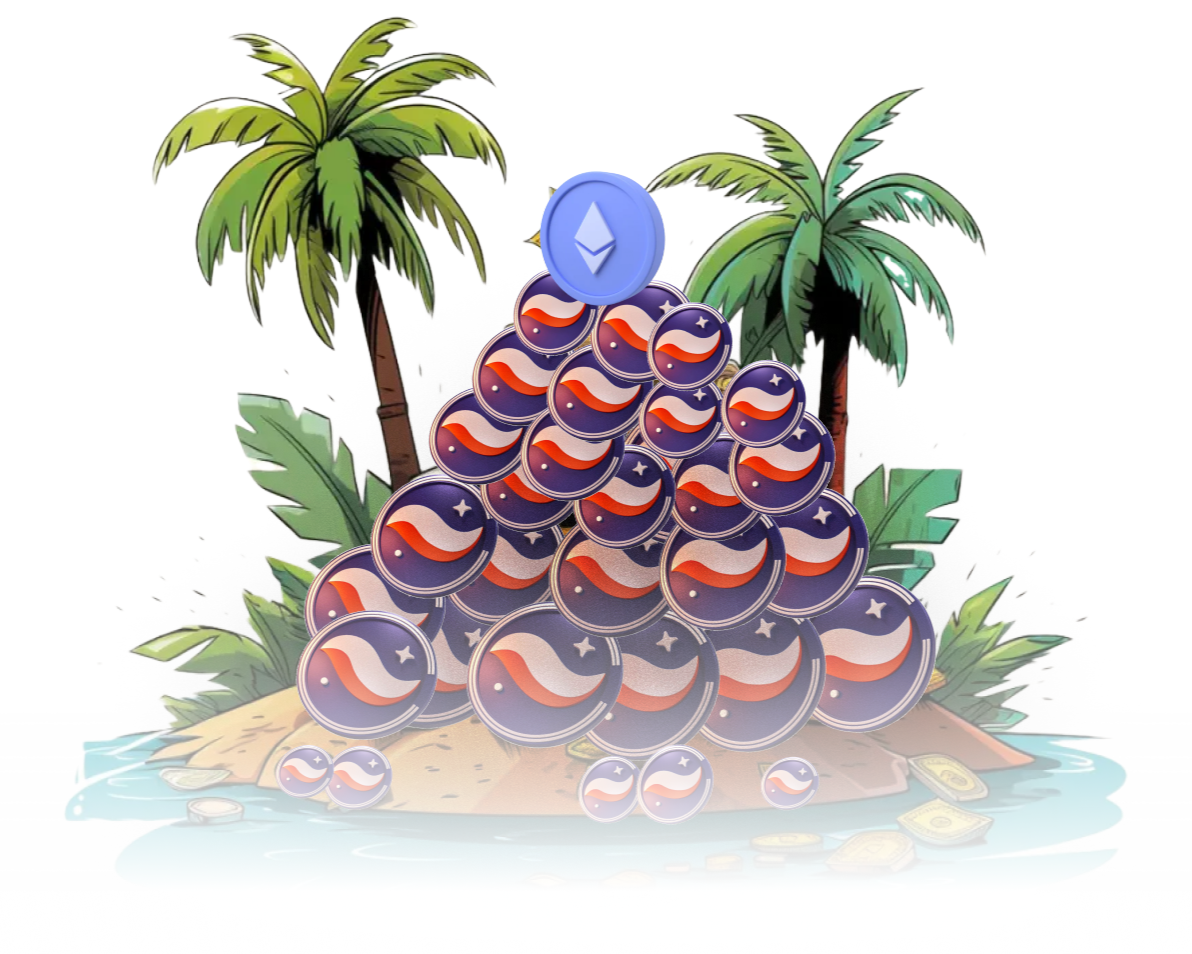
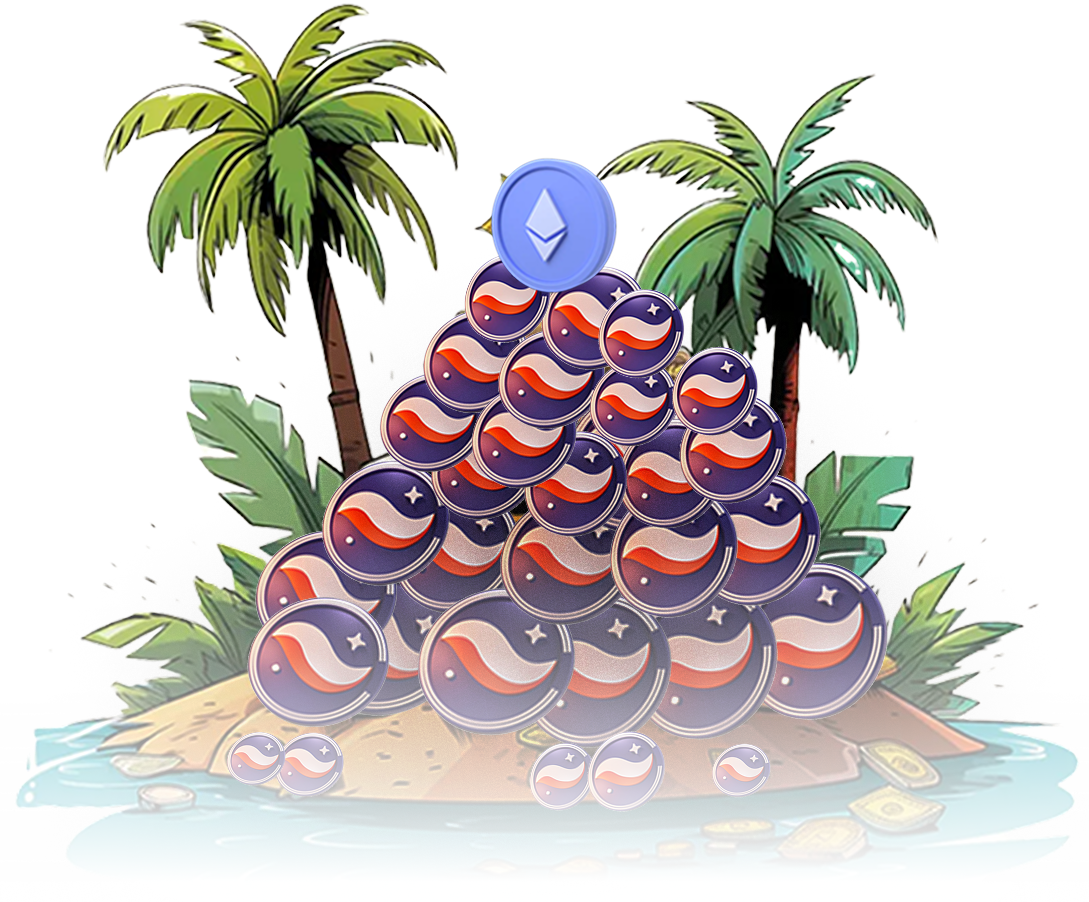
fix: images quality & remove leaves

diff --git a/components/affiliates/affiliationDefinition.tsx b/components/affiliates/affiliationDefinition.tsx
@@ -1,35 +1,15 @@
 import React, { FunctionComponent } from "react";
 import homeStyles from "../../styles/Home.module.css";
 import styles from "../../styles/affiliates.module.css";
-import { Parallax } from "react-scroll-parallax";
-import { CDNImg } from "../cdn/image";
 
 const AffiliationDefinition: FunctionComponent = () => {
   return (
     <div className={homeStyles.subsection}>
       <div className={styles.card1}>
         <div className="flex items-center justify-evenly flex-col">
-          <Parallax speed={-4}>
-            <CDNImg
-              src="/leaves/lilLeaf02.svg"
-              alt="leaf"
-              className={styles.leaf1}
-              width={20}
-              height={20}
-            />
-          </Parallax>
           <h2 className={homeStyles.secondTitle}>
             What is the stark affiliate program ?
           </h2>
-          <Parallax speed={-20}>
-            <CDNImg
-              src="/leaves/lilLeaf01.svg"
-              alt="leaf"
-              className={styles.leaf2}
-              width={20}
-              height={20}
-            />
-          </Parallax>
           <p className={styles.paragraph}>
             Our affiliate program pays you for sending your customers to our website. As an 
             Affiliate you&apos;ll be able to promote starknet.id domains and get a commission on 
